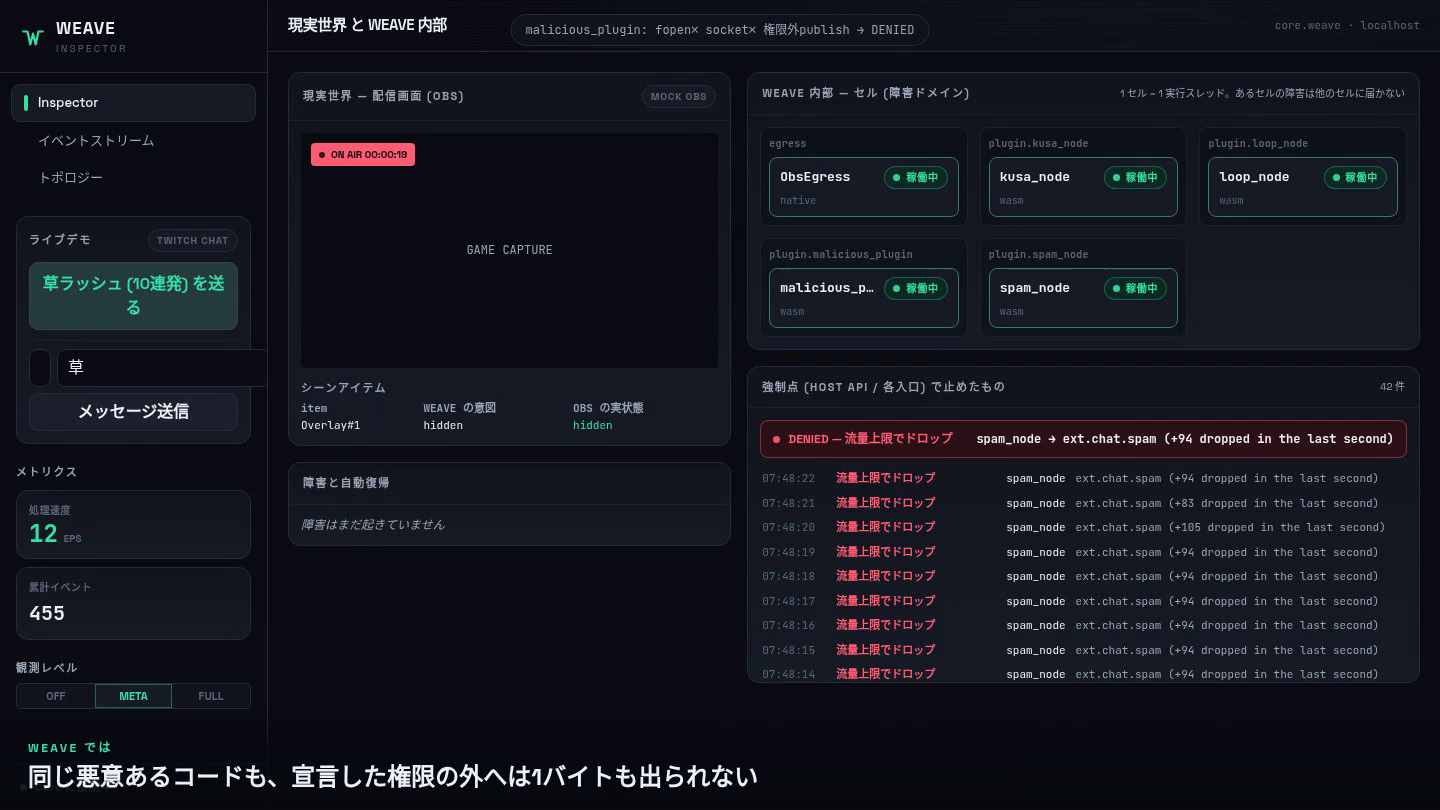
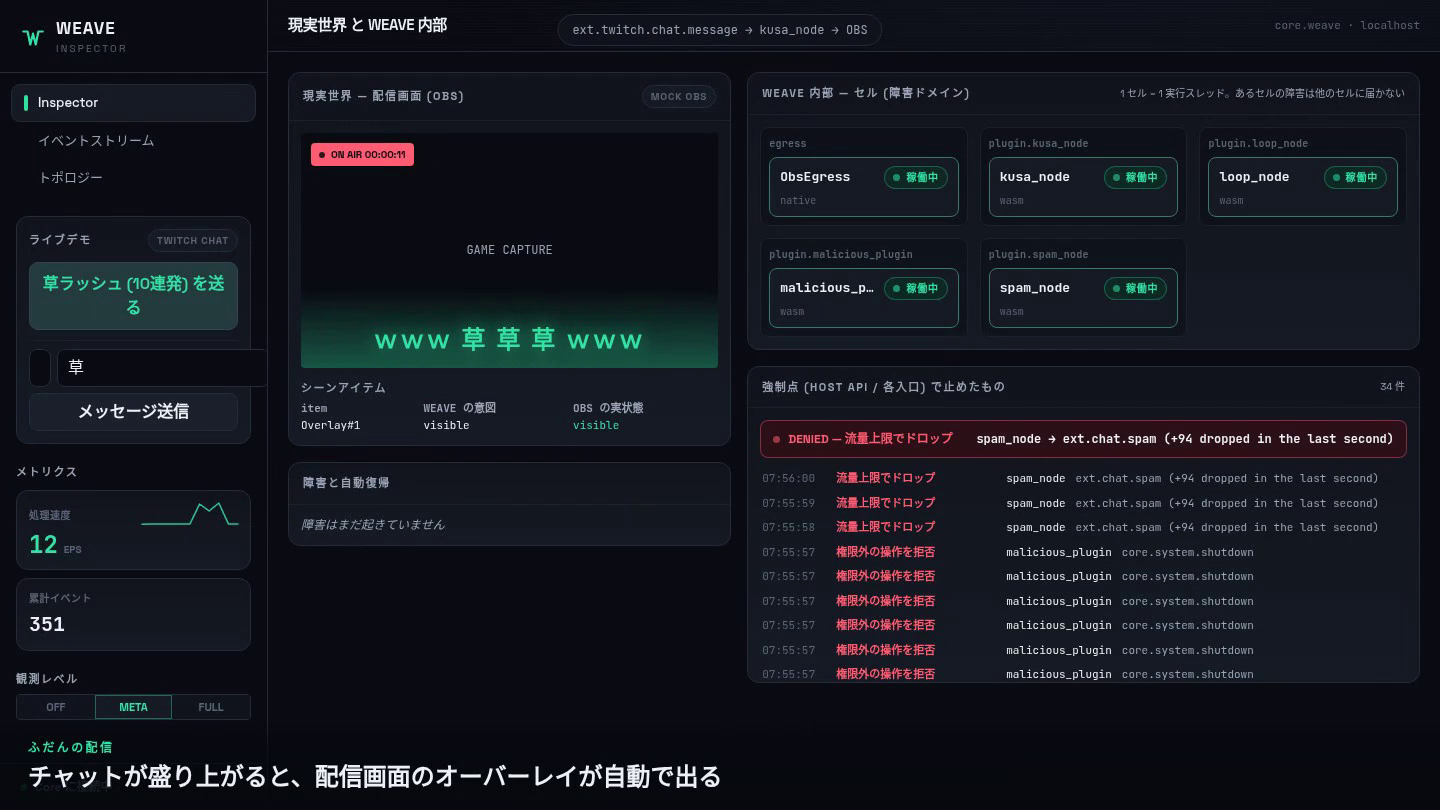
ui(metrics): EPS スパークラインを追加し、デモ動画の静止画を更新
直近 40 秒の EPS を折れ線で表示 (epsHistory)。動画 (demo/output/weave_demo.mp4) と
静止画も最終 UI で撮り直し。

diff --git a/dashboard/src/lib/components/MetricCard.svelte b/dashboard/src/lib/components/MetricCard.svelte
@@ -1,14 +1,30 @@
 <script lang="ts">
-  import { metrics } from '../stores';
-  
-  export let label: string = "Throughput";
-  export let unit: string = "EPS";
+  import { metrics, epsHistory } from '../stores';
+
+  let { label = 'Throughput', unit = 'EPS' }: { label?: string; unit?: string } = $props();
+
+  // スパークライン (直近 40 秒の EPS)
+  let path = $derived.by(() => {
+    const h = $epsHistory;
+    if (h.length < 2) return '';
+    const w = 96, ht = 24;
+    const max = Math.max(1, ...h);
+    const step = w / (h.length - 1);
+    return h.map((v, i) => `${i === 0 ? 'M' : 'L'}${(i * step).toFixed(1)},${(ht - (v / max) * ht).toFixed(1)}`).join(' ');
+  });
 </script>
 
-<div class="card p-3 flex flex-col gap-1">
+<div class="card p-3 flex flex-col gap-1.5">
+  <div class="flex items-center justify-between">
     <div class="text-[10px] font-bold text-[var(--t-lo)] uppercase tracking-wider">{label}</div>
-    <div class="flex items-baseline gap-1.5">
-        <span class="text-2xl mono tnum text-[var(--live)] font-bold leading-none">{$metrics.eps}</span>
-        <span class="text-[10px] text-[var(--t-lo)] font-bold">{unit}</span>
-    </div>
+    {#if path}
+      <svg width="96" height="24" viewBox="0 0 96 24" class="overflow-visible">
+        <path d={path} fill="none" stroke="var(--live)" stroke-width="1.5" stroke-linecap="round" stroke-linejoin="round" opacity="0.85" />
+      </svg>
+    {/if}
+  </div>
+  <div class="flex items-baseline gap-1.5">
+    <span class="text-2xl mono tnum text-[var(--live)] font-bold leading-none">{$metrics.eps}</span>
+    <span class="text-[10px] text-[var(--t-lo)] font-bold">{unit}</span>
+  </div>
 </div>

diff --git a/dashboard/src/lib/stores.ts b/dashboard/src/lib/stores.ts
@@ -80,6 +80,7 @@ export const connection = writable<Connection>('connecting');
 export const nodes = writable<Record<number, NodeView>>({});
 export const edges = writable<GraphEdge[]>([]);
 export const metrics = writable<SystemMetrics>({ eps: 0, totalEvents: 0 });
+export const epsHistory = writable<number[]>([]);
 export const eventLogs = writable<EventMessage[]>([]);
 export const securityEvents = writable<SecurityEvent[]>([]);
 export const faultTimeline = writable<FaultEntry[]>([]);

diff --git a/dashboard/src/lib/websocket.ts b/dashboard/src/lib/websocket.ts
@@ -8,6 +8,7 @@ import {
   type EventMessage,
   introspection,
   metrics,
+  epsHistory,
   type NodeStatus,
   type NodeView,
   nodes,
@@ -222,6 +223,8 @@ function route(msg: EventMessage) {
 }
 
 setInterval(() => {
-  metrics.update((m) => ({ ...m, eps: epsCounter }));
+  const v = epsCounter;
+  metrics.update((m) => ({ ...m, eps: v }));
+  epsHistory.update((h) => { const n = [...h, v]; return n.length > 40 ? n.slice(-40) : n; });
   epsCounter = 0;
 }, 1000);
